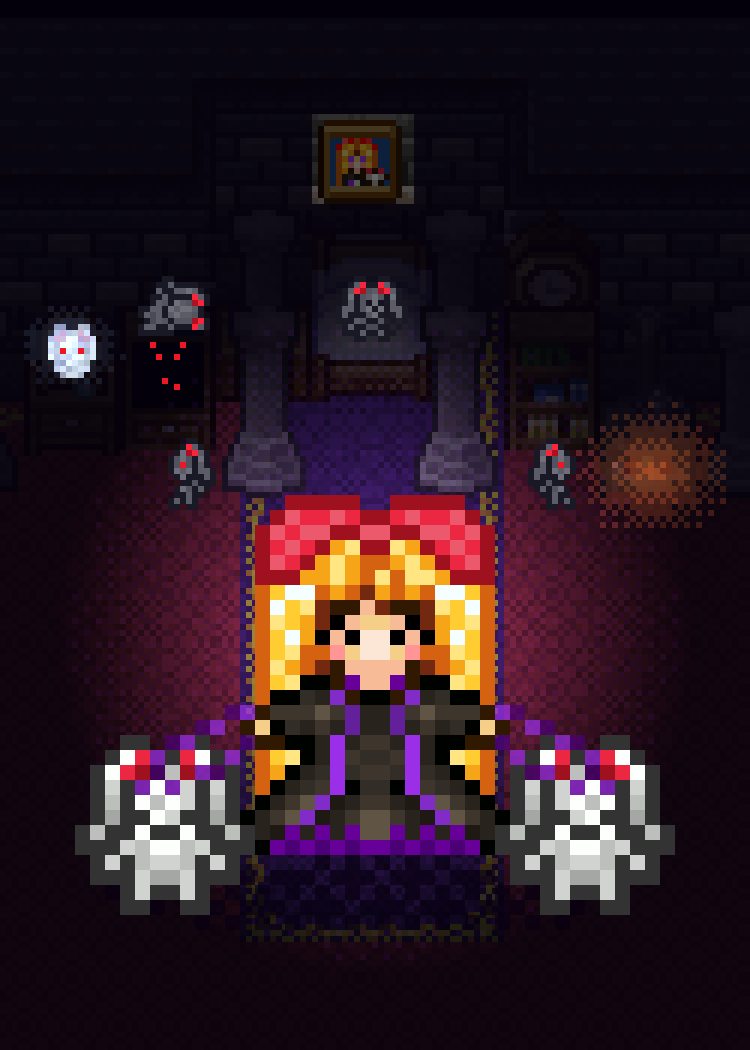
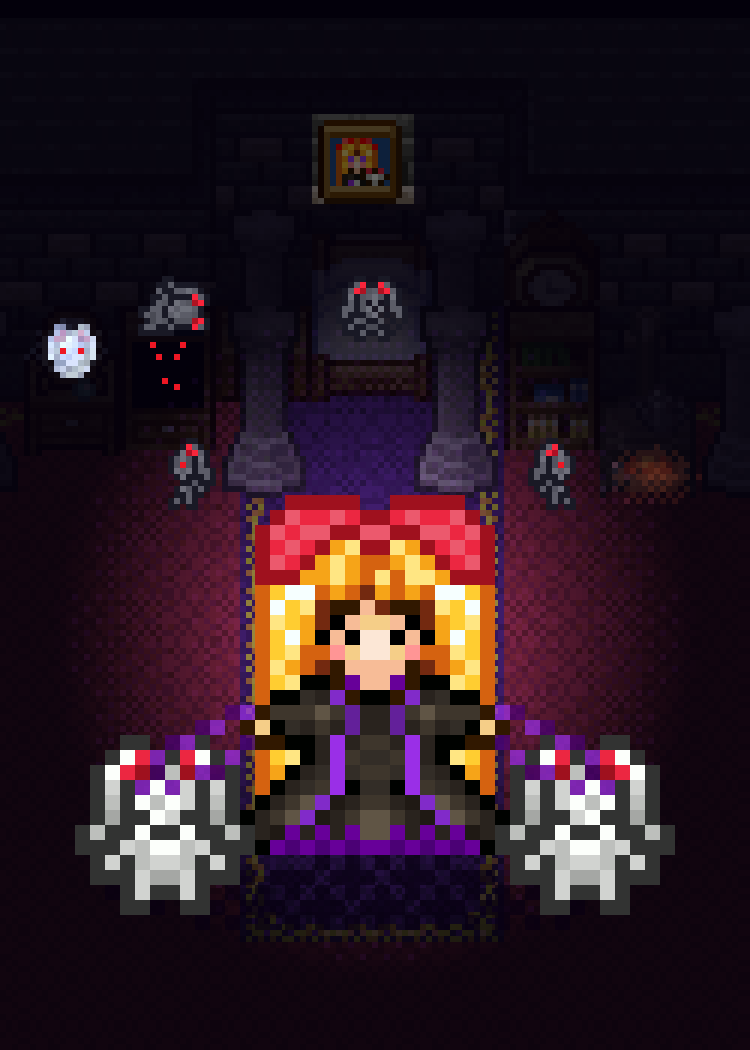
Runde 5: Zwischenstand der Helden-Sleeves (in Arbeit)
Claude-Session: https://claude.ai/code/session_01TEnvTzH2xD44R6Unjv7vDo

Changed region(s): [[0.7667, 0.3962, 0.9813, 0.5181], [0.092, 0.3352, 0.1227, 0.3657], [0.0613, 0.3048, 0.092, 0.3352]]

diff --git a/data/sleeve-proposals/runde5/generator/s03_vials_on_the_vine.py b/data/sleeve-proposals/runde5/generator/s03_vials_on_the_vine.py
@@ -1,6 +1,31 @@
 # -*- coding: utf-8 -*-
-"""03 (Arbeitsstand v1) – Kyli, the Deceptive Sapling."""
-import math, random
+"""03 Vials on the Vine – Kyli, the Deceptive Sapling (Base-Heldin).
+
+Idee: Nachts auf der Steinlichtung ihrer Kartenszene steht Kyli groß im kerzenbeleuchteten Opferring
+(Occultism), hinter ihr ein fahler Vollmond, vor dem sich ihr Zweig-Geweih abzeichnet. Aus den drei
+Spitzen ihres Geweihs wachsen Ranken, die drei zurückgeholte Tränke wie Früchte tragen (Biomancy: bis zu
+3 gelöschte Potions werden nach einem Opfer zu lebenden Tokens in ihren Support Zones). Zwei Augenbäume
+mit rotem Auge und Zahnmaul (der „trügerische“ Baum aus ihrem Kartenbild) rahmen die Szene gespiegelt.
+
+Quellen:
+  MotiveGrailWar.xcf  Ebene 149 „Kyli“ – Base-Kyli, pixelgleich (0 px Abweichung) mit Szene 147 „Sichtbar #7“
+                      (Kartenausschnitt Lage 237,48); einzige Kyli-Ebene aller xcf-Dateien, keine Variante.
+                      Ebene 150 „Ebene #431“ – Augenbaum aus derselben Szene (99,5 % Treffer; die Kopie
+                      160 „Occultism“ weicht in 20 px ab und wurde nicht genommen), rechts gespiegelt,
+                      abgedunkelt/violett getönt, Zähne gedämpft, rotes Auge unverändert.
+                      Ebene 161 „Ebene #421“ – 16×16-Kachel des Steinbodens (Kontrast beruhigt).
+                      Ebene 159 „Ebene #423“ – Kerze aus dem Ritualkreis (Asriel-/Chara-Szenen), 2×.
+  MotiveSteamDwarfs.xcf Ebene 134 „Biomancy“ – runde Korkflaschen grün, türkis, rot (Karte „Biomancy“).
+Selbst gezeichnet: Himmel, Sterne, Mond mit Sichelschatten und Lichthof, Horizontsaum, Opferring mit
+Runenkerben (ohne Pentagramm), roter Schein im Ring, Kylis Bodenschatten, Ranken (1 Zelle, hell/dunkel
+abwechselnd) mit Fruchtstiel-Umgriff, schwacher Lichtsaum der Tränke.
+
+Skalierung (Tiefenebenen):
+  Hintergrund (Himmel, Sterne, Mond)                    – 2×-Raster (125×175)
+  Mittelgrund (Steinboden, Ringschein, zwei Augenbäume) – 3×-Raster (84×117)
+  Vordergrund (Kyli, Tränke, Ranken, Ring, Kerzen)      – 5×-Raster (50×70); Kyli 120×165 px im 250er-Raster
+"""
+import math, os, random
 import numpy as np
 from common import *  # noqa
 
@@ -12,14 +37,34 @@ SD = 'MotiveSteamDwarfs'
 # ---------------- Sprites ----------------------------------------------------------------
 kyli = sprite('h03_kyli', GW, [149])                    # 24×33, Base-Kyli (Szene Sichtbar #7)
 tree = sprite('h03_eyetree', GW, [150])                 # 33×44, Augenbaum aus Kylis Kartenszene
-_pots = parts(layer(SD, 134)[400:540, 70:400], dil=0, minpx=10)
-pot_green, pot_teal, pot_red = _pots[12], _pots[13], _pots[16]              # runde Korkflaschen (Biomancy-Szene)
-_circ = compose(GW, [159], crop=False)[91:139, 271:319]  # Ritualkreis mit Kerzen (Asriel/Chara-Szene)
-candle = _circ[3:14, 14:18].copy()
-_rc = ((candle[..., 0] == 91) & (candle[..., 1] == 3)) | ((candle[..., 0] == 130) & (candle[..., 1] == 0))
-candle[_rc] = 0
-candle = candle[np.ix_(*[np.where(candle[..., 3].any(ax))[0] for ax in (1, 0)])]
+from PIL import Image
+import xcfkit
 
+
+def cached(key, fn):
+    """Aus Ebenen geschnittene Teilsprites unter sprites5/<key>.png ablegen (ohne xcf-Export: von dort laden)."""
+    path = os.path.join(xcfkit.CACHE, key + '.png')
+    try:
+        s = fn(); Image.fromarray(s).save(path); return s
+    except Exception:
+        return np.array(Image.open(path).convert('RGBA'))
+
+
+def _pots():
+    return parts(layer(SD, 134)[400:540, 70:400], dil=0, minpx=10)     # runde Korkflaschen (Biomancy-Szene)
+
+
+def _candle():
+    c = compose(GW, [159], crop=False)[91:139, 271:319][3:14, 14:18].copy()   # Kerze aus dem Ritualkreis
+    rc = ((c[..., 0] == 91) & (c[..., 1] == 3)) | ((c[..., 0] == 130) & (c[..., 1] == 0))   # Kreislinie weg
+    c[rc] = 0
+    return c[np.ix_(*[np.where(c[..., 3].any(ax))[0] for ax in (1, 0)])]
+
+
+pot_green = cached('h03_pot_green', lambda: _pots()[12])
+pot_teal = cached('h03_pot_teal', lambda: _pots()[13])
+pot_red = cached('h03_pot_red', lambda: _pots()[16])
+candle = cached('h03_candle', _candle)
 
 def grid(k):
     return -(-W // k), -(-H // k)
@@ -53,22 +98,6 @@ def bands(cv, y0, y1, stops, soft=0.4):
         a, b = np.array(stops[i]), np.array(stops[i + 1])
         for x in range(cv.w):
             cv.a[y, x] = b if f > BAYER4[y % 4, x % 4] else a
-
-
-def glow_rgba(arr, cx, cy, r, col, strength=0.5, ry=None):
-    """Lichthof auf ein RGBA-Array (nur dort, wo schon etwas ist, sonst halbtransparente Pixel)."""
-    col = np.array(col, float); ry = ry or r
-    for y in range(max(0, int(cy - ry)), min(arr.shape[0], int(cy + ry) + 1)):
-        for x in range(max(0, int(cx - r)), min(arr.shape[1], int(cx + r) + 1)):
-            d = math.hypot((x + .5 - cx) / r, (y + .5 - cy) / ry)
-            if d >= 1: continue
-            t = (1 - d) ** 1.5 * strength
-            q = min(math.floor(t * 4 + BAYER4[y % 4, x % 4]) / 4, strength)
-            if q <= 0: continue
-            if arr[y, x, 3] > 0:
-                arr[y, x, :3] = (arr[y, x, :3] * (1 - q) + col * q).astype(np.uint8)
-            else:
-                arr[y, x] = list(col.astype(np.uint8)) + [int(255 * q)]
 
 
 def glow(cv, cx, cy, r, col, strength=0.5, ry=None):
@@ -244,4 +273,4 @@ cv = Canvas(W, H)
 blit(cv, bg, 2)
 blit(cv, mg, 3)
 blit(cv, fg, 5)
-print(save(cv, '03_sapling_vials.png'))
+print(save(cv, '03_vials_on_the_vine.png'))

diff --git a/data/sleeve-proposals/runde5/generator/s05_kitten_escort.py b/data/sleeve-proposals/runde5/generator/s05_kitten_escort.py
@@ -1,22 +1,23 @@
 # -*- coding: utf-8 -*-
-"""05 Cute Backup – Held: Cute Annoyance Mini.
-Mini schwebt mit ihren grauen Federflügeln und dem frechen Grinsen groß im Vordergrund über einem Wolkenmeer;
-hinter ihr steigt – nur als dunstiger Riese im rosa Abendschein – ihr größter „Cute“-Freund aus den Wolken:
-die fünfköpfige Cute Hydra mit leuchtenden Herzaugen, zwei Herzchen (Charme) steigen über ihr auf.
-Die kleine Nervensäge hat Verstärkung gerufen (Kartentext: sucht und beschwört „Cute“-Kreaturen; Summoning Magic).
+"""05 Kitten Escort – Held: Cute Annoyance Mini (Base-Version).
+Mini schwebt mit grauen Federflügeln und frechem Grinsen groß vor einem großen, weichen Herz in ihrem Kartenlila
+über einem Wolkenmeer im Abendhimmel; ihre zwei geflügelten Cute Cats (die Katzen ihrer Base-Karte, Summoning Magic)
+eskortieren sie diagonal versetzt – links oben und rechts unten –, kleine rosa Herzchen (Charme) füllen die Gegenecken.
 
 Quellen (MotiveMoe.xcf):
   Ebene 497 „Mini #2“ + 498 „Mini“ (Flügelpaar) – Base-Mini, pixelgenau identisch mit Sichtbar #124
       (Ebene 101, Kartenausschnitt Lage 100,259 der Karte „Cute Annoyance Mini“; 0 abweichende Pixel).
-      Nicht verwendet: 495 (Schatten, nicht in der Kartenszene), 326 „Trial of Annoyance“ (Variante mit offenem Mund).
-  Ebene 190 „Cute Hydra“ – Karte „Cute Hydra“ (Sichtbar #81, Lage 256,158; vollständig, einzige Ebene)
-  Ebene 499 „Mini #1“ – das kleine Herzchen (5×4) aus Minis Kartenszene, rosa umgefärbt
-Selbst gezeichnet: Himmel mit Abendschein und Sternen, Wolkenschlieren, Wolkenbank, Wolkenmeer, Vordergrundwolken.
+      Nicht verwendet: 495 (Schatten, nicht in der Kartenszene), 326 „Trial of Annoyance“ (Variante).
+  Ebene 494 „Mini #5“ – die zwei Flügelkatzen der Mini-Karte (je 23×14; per Vorlagenvergleich in Sichtbar #124
+      gefunden, Abweichungen nur dort, wo der Kartenausschnitt sie abschneidet).
+  Ebene 499 „Mini #1“ – das kleine Herzchen (5×4) aus Minis Kartenszene, rosa umgefärbt.
+Selbst gezeichnet: Himmel, Sterne, Wolkenschlieren, großes Herz mit Schein und Glanzlicht (nach dem Kartenherz),
+Wolkenmeer, Vordergrundwolken.
 
 Skalierung (Tiefenebenen, Ausgabe = 250×350-Raster × 3):
-  Himmel, Schein, Sterne, Schlieren             – 1× (250×350)
-  Cute Hydra (gedunstet), Herzchen, Wolkenbank, Wolkenmeer – 3× (84×117)
-  Mini, Vordergrundwolken                        – 5× (50×70)
+  Himmel, Sterne, Schlieren                          – 1× (250×350)
+  großes Herz, Herzchen, Wolkenmeer                  – 2× (125×175)
+  Mini, beide Cute Cats, Vordergrundwolken           – 4× (63×88)
 """
 import math, random
 from common import *  # noqa

diff --git a/data/sleeve-proposals/runde5/generator/s06_dolls_in_the_dark.py b/data/sleeve-proposals/runde5/generator/s06_dolls_in_the_dark.py
@@ -109,9 +109,9 @@ for y in range(175):
             g = math.floor((t ** 1.5) * 4 + bay(x, y)) / 4          # violetter Schein in Stufen, gedithert
             c = c * f + GLOW * g * 0.55 + (1 - f) * np.array([4, 1, 12])
         # warmer Schein der Ofenglut (rechts) und kalter Schein des Spiegelgeists (links)
-        for (gx_, gy_, r_, col_, k_) in ((329 - RX0, 316.5 - RY0, 15, (255, 120, 40), 0.55),
-                                        (231.5 - RX0, 296 - RY0, 10, (150, 190, 230), 0.30)):
-            dd = math.hypot(x + .5 - gx_, (y + .5 - gy_) * 1.2) / r_
+        for (gx_, gy_, r_, col_, k_) in ((329 - RX0, 317 - RY0, 9, (255, 110, 40), 0.32),
+                                        (231.5 - RX0, 296 - RY0, 8, (150, 190, 230), 0.22)):
+            dd = math.hypot(x + .5 - gx_, (y + .5 - gy_) * 1.5) / r_
             if dd < 1 and not emis[y, x]:
                 st = math.floor(((1 - dd) ** 1.5) * 3 + bay(x, y)) / 3   # 3 Stufen, gedithert
                 c = c + np.array(col_) * st * k_

diff --git a/data/sleeve-proposals/runde5/notes.md b/data/sleeve-proposals/runde5/notes.md
@@ -1,3 +1,3 @@
-05 | Cute Backup | Cute Annoyance Mini | Die kleine Nervensäge hat Verstärkung gerufen: Mini schwebt groß und grinsend über einem lila Wolkenmeer, hinter ihr steigt im rosa Abendschein ihr größter „Cute“-Freund als dunstiger Riese aus der Wolkenbank – die fünfköpfige Cute Hydra mit leuchtenden Herzaugen, darüber zwei Herzchen (Charme/Summoning Magic) | Himmel/Schein/Sterne 1×; Cute Hydra (gedunstet), Herzchen, Wolkenbank/-meer 3×; Mini + Vordergrundwolken 5× | MotiveMoe 497 „Mini #2“ + 498 „Mini“ (Base, = Sichtbar #124 Lage 100,259, 0 px Abweichung), 190 „Cute Hydra“ (Sichtbar #81), Herzchen aus 499 „Mini #1“ | Rahmen: twist/silver/amethyst/rose
+05 | Kitten Escort | Cute Annoyance Mini | Mini schwebt groß und grinsend vor einem großen, weichen Herz in ihrem Kartenlila über einem Wolkenmeer im Abendhimmel; ihre zwei geflügelten Cute Cats (Katzen der Base-Karte, Summoning Magic) eskortieren sie diagonal (links oben, rechts unten), rosa Herzchen (Charme) in den Gegenecken | Himmel/Sterne 1×; großes Herz, Herzchen, Wolkenmeer 2×; Mini + Cute Cats + Vordergrundwolken 4× | MotiveMoe 497 „Mini #2“ + 498 „Mini“ (Base, = Sichtbar #124 Lage 100,259, 0 px Abweichung), 494 „Mini #5“ (Flügelkatzen der Mini-Karte), Herzchen aus 499 „Mini #1“ | Rahmen: twist/silver/amethyst/rose
 01 | Heartguard | Cool Rescuer Monia | Monia (Base) schwebt mit feuernden Jet-Düsen vor dem Herz ihres Kartenbilds, das zum durchscheinenden Schutzschild wird; darin bergen sich eine Cute Bunny (Fledermaus-Hase) und eine Cute Cat, eine MOE-Bomb-Herzbombe verpufft am Schildrand, eine zweite fällt noch heran; das Herz ruht auf einer Wolkenbank (Kartentext: Effekte auf Kreaturen negieren) | Monia 5×; Hintergrund-Ebene (Himmel, Wolken, Herzschild, Kreaturen, Bomben, Effekte) 2× | MotiveMoe 511+510 (Monia Base, pixelgleich mit Szene 68 „Sichtbar #157“), 512 (Herz-Palette, Deko-Herzen), 429 Cute Bunny #1, 492 Cute Cat, 376 MOE Bomb (M-Emblem übermalt), 553 Hintergrund (Himmel); Schild/Explosion/Wolken selbst gezeichnet | Rahmen: ornate/silver/rose/sapphire
 04 | Stormdraw | Champion, the Stormbringer | Champion steht groß auf einer Hügelkuppe im Gewitter und greift mit ausgestrecktem Arm in den Trichter seines Tornados (wie im Kartenbild links neben ihm); die Windbahn reißt Karten beider Spieler (lila Heldenkarte, blaue Karte, goldene Karte) spiralförmig hinauf in die eingedrehte Mutterwolke, rechts schlägt ein ferner Blitz ein, links windet sich der Fluss aus der Kartenszene | Himmel/Wolken/Regen/Blitz/Ebene/Fluss 2×, Tornado/Karten/Windbahn/Staub/Hügel 3×, Champion 6× (168×186) | MotiveJapan 121 „Champion“ + 119 + 120 (Schwert „The Stormblade“, geprüft gegen Sichtbar #33/#38), MotiveJapan 112 (Tornado der Karte, falsch benannt „Gate to the Armory“), Motive 584 (Spielkarten aus „Card Game Player Inya“) | Rahmen: twist/silver/amethyst/cyan
